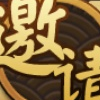
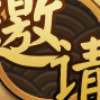
fix(KekkaiActivation): Update image

diff --git a/dev_tools/assets_test.py b/dev_tools/assets_test.py
@@ -32,13 +32,13 @@ def detect_ocr(file: str, target: RuleOcr):
 
 
 # 图片文件路径 可以是相对路径
-IMAGE_FILE = 'C:/Users/Ryland/Desktop/QQ截图20240113215243.png'
+IMAGE_FILE = './log/error/1705350270552/2024-01-16_04-24-30-481597.png'
 if __name__ == '__main__':
-    # from tasks.KekkaiActivation.assets import KekkaiActivationAssets
-    # targe = KekkaiActivationAssets.I_A_HARVEST_FISH_6
-    # print(detect_image(IMAGE_FILE, targe))
     from tasks.KekkaiActivation.assets import KekkaiActivationAssets
-    target = KekkaiActivationAssets.O_CARD_ALL_TIME
-    print(detect_ocr(IMAGE_FILE, target))
+    targe = KekkaiActivationAssets.I_A_INVITE
+    print(detect_image(IMAGE_FILE, targe))
+    # from tasks.KekkaiActivation.assets import KekkaiActivationAssets
+    # target = KekkaiActivationAssets.O_CARD_ALL_TIME
+    # print(detect_ocr(IMAGE_FILE, target))
 
 

diff --git a/tasks/KekkaiActivation/assets.py b/tasks/KekkaiActivation/assets.py
@@ -47,7 +47,7 @@ class KekkaiActivationAssets:
 	# 其他变异 
 	I_A_CARD_OTHER = RuleImage(roi_front=(353,502,173,61), roi_back=(353,502,173,61), threshold=0.9, method="Template matching", file="./tasks/KekkaiActivation/a/a_a_card_other.png")
 	# 邀请 
-	I_A_INVITE = RuleImage(roi_front=(1040,552,100,100), roi_back=(1040,552,100,100), threshold=0.8, method="Template matching", file="./tasks/KekkaiActivation/a/a_a_invite.png")
+	I_A_INVITE = RuleImage(roi_front=(1045,559,100,100), roi_back=(1014,538,182,162), threshold=0.8, method="Template matching", file="./tasks/KekkaiActivation/a/a_a_invite.png")
 	# 自动邀请 
 	I_A_AUTO_INVITE = RuleImage(roi_front=(1071,456,53,51), roi_back=(1071,456,53,51), threshold=0.8, method="Template matching", file="./tasks/KekkaiActivation/a/a_a_auto_invite.png")
 	# description 
